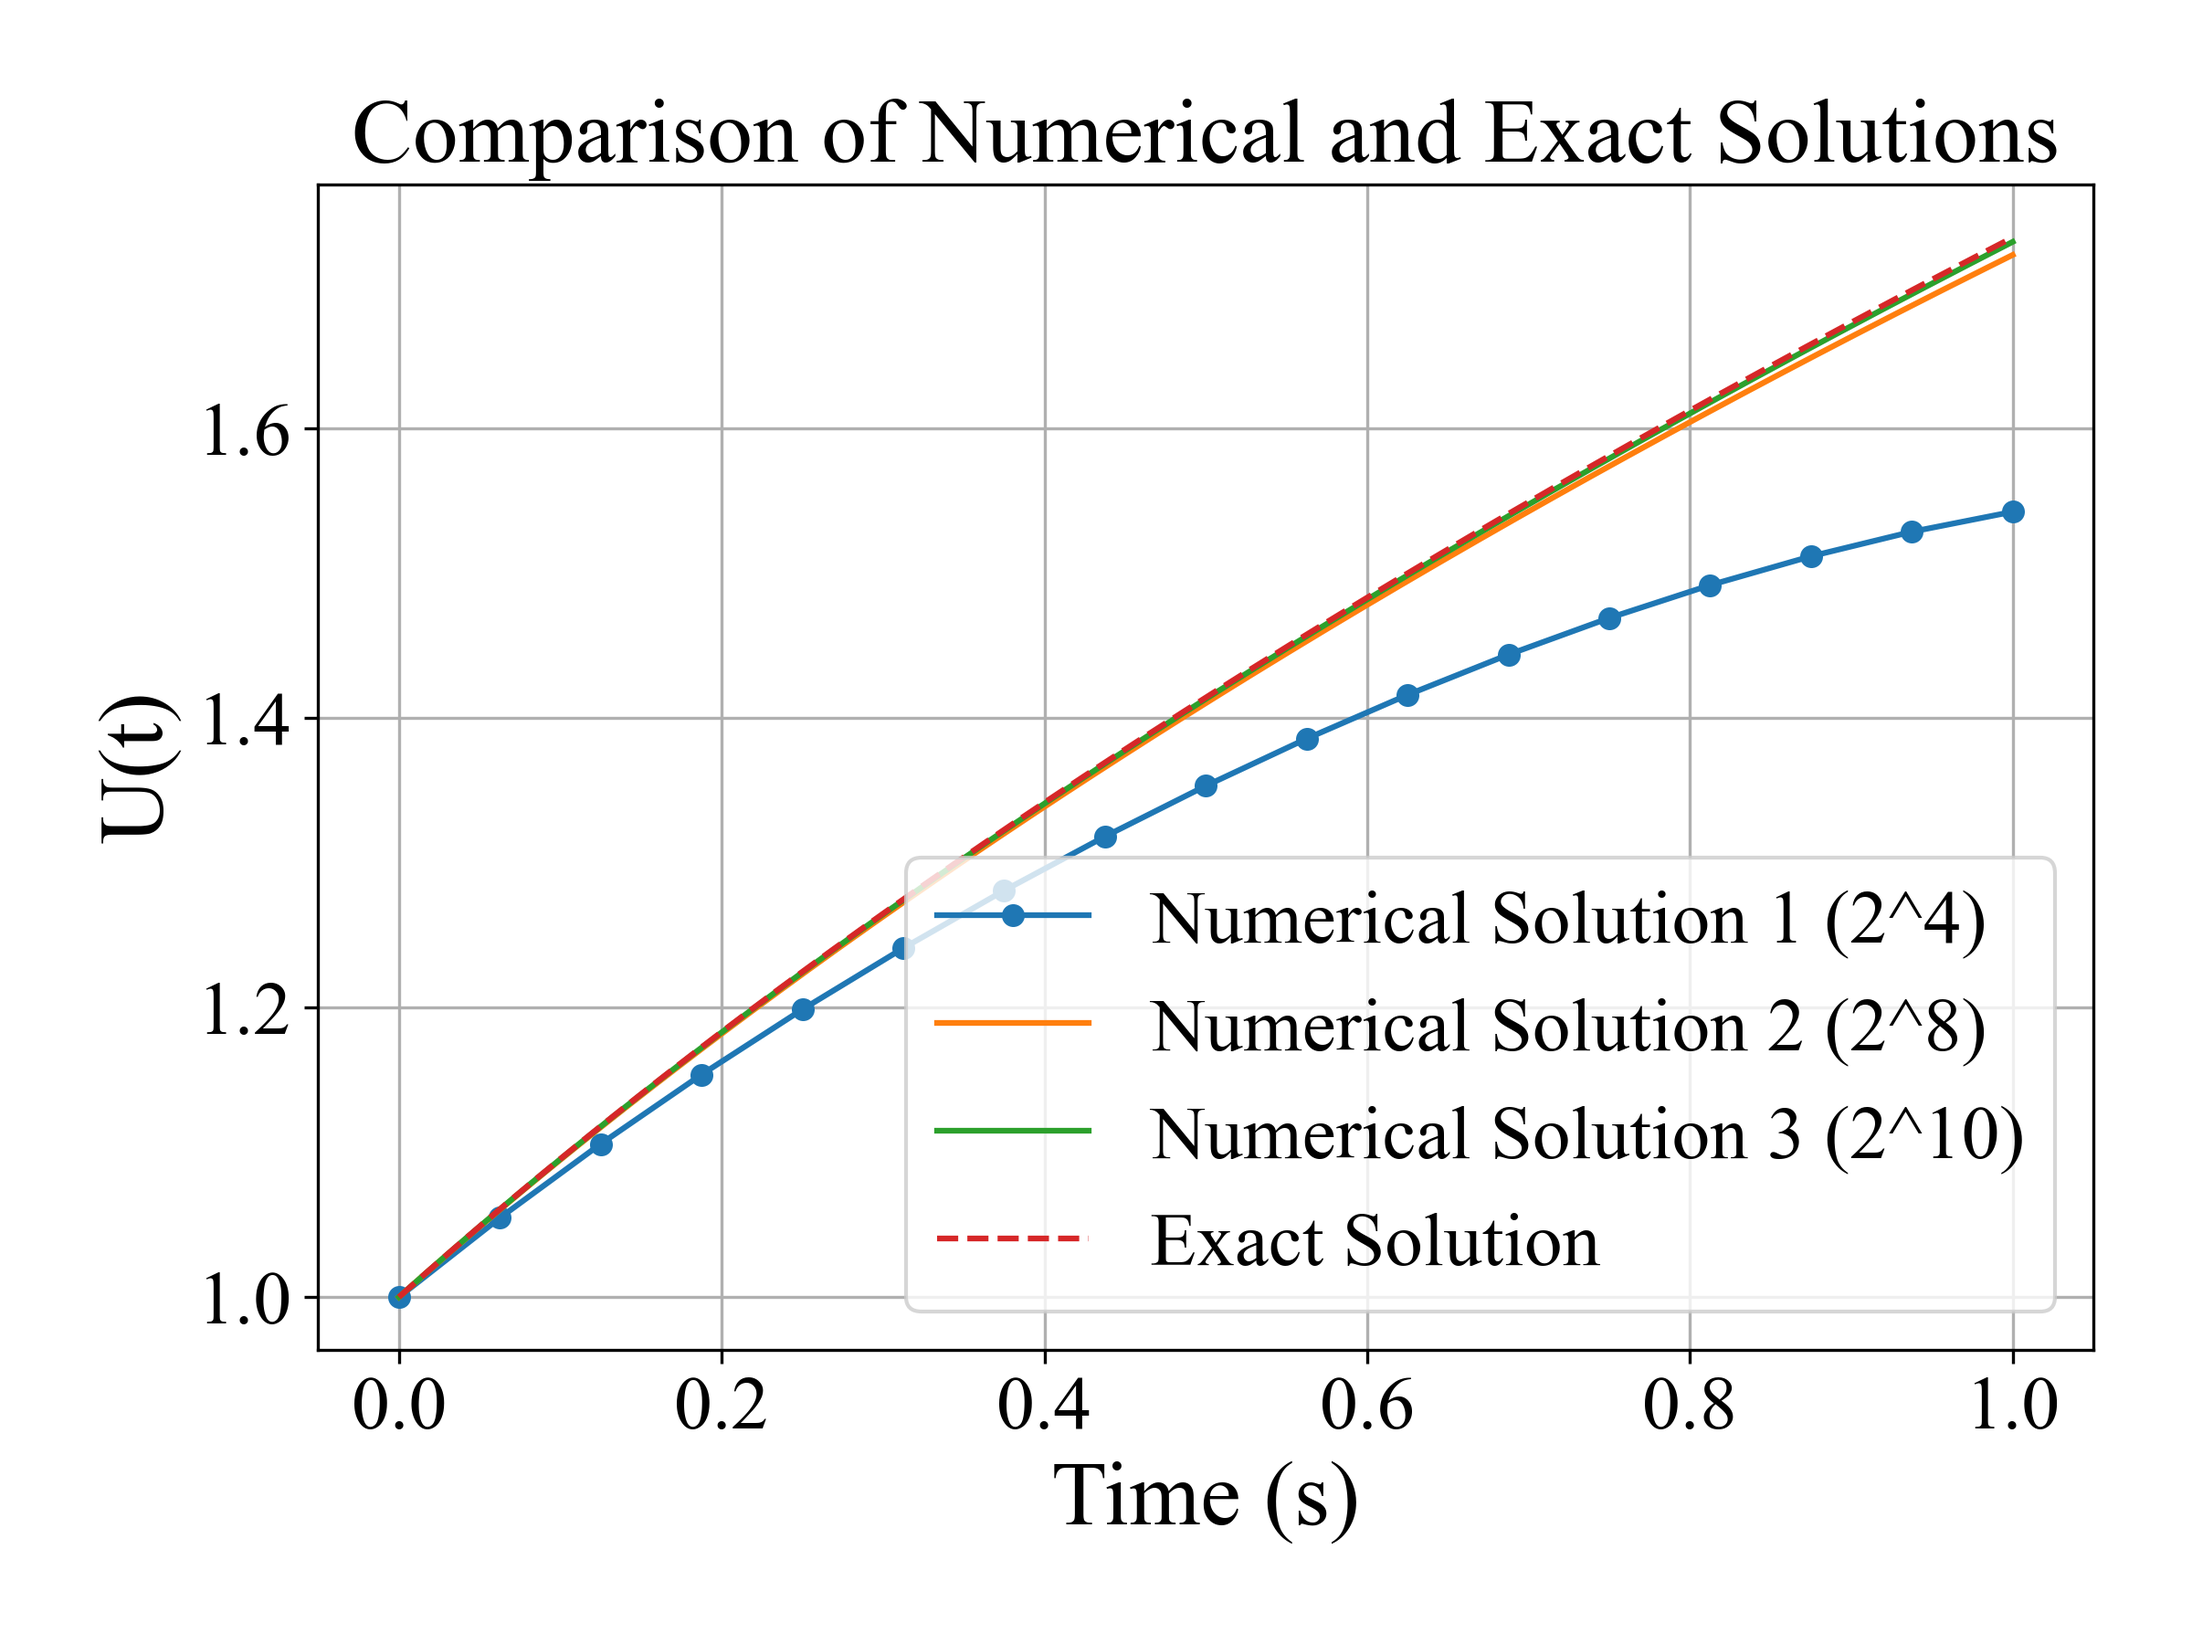
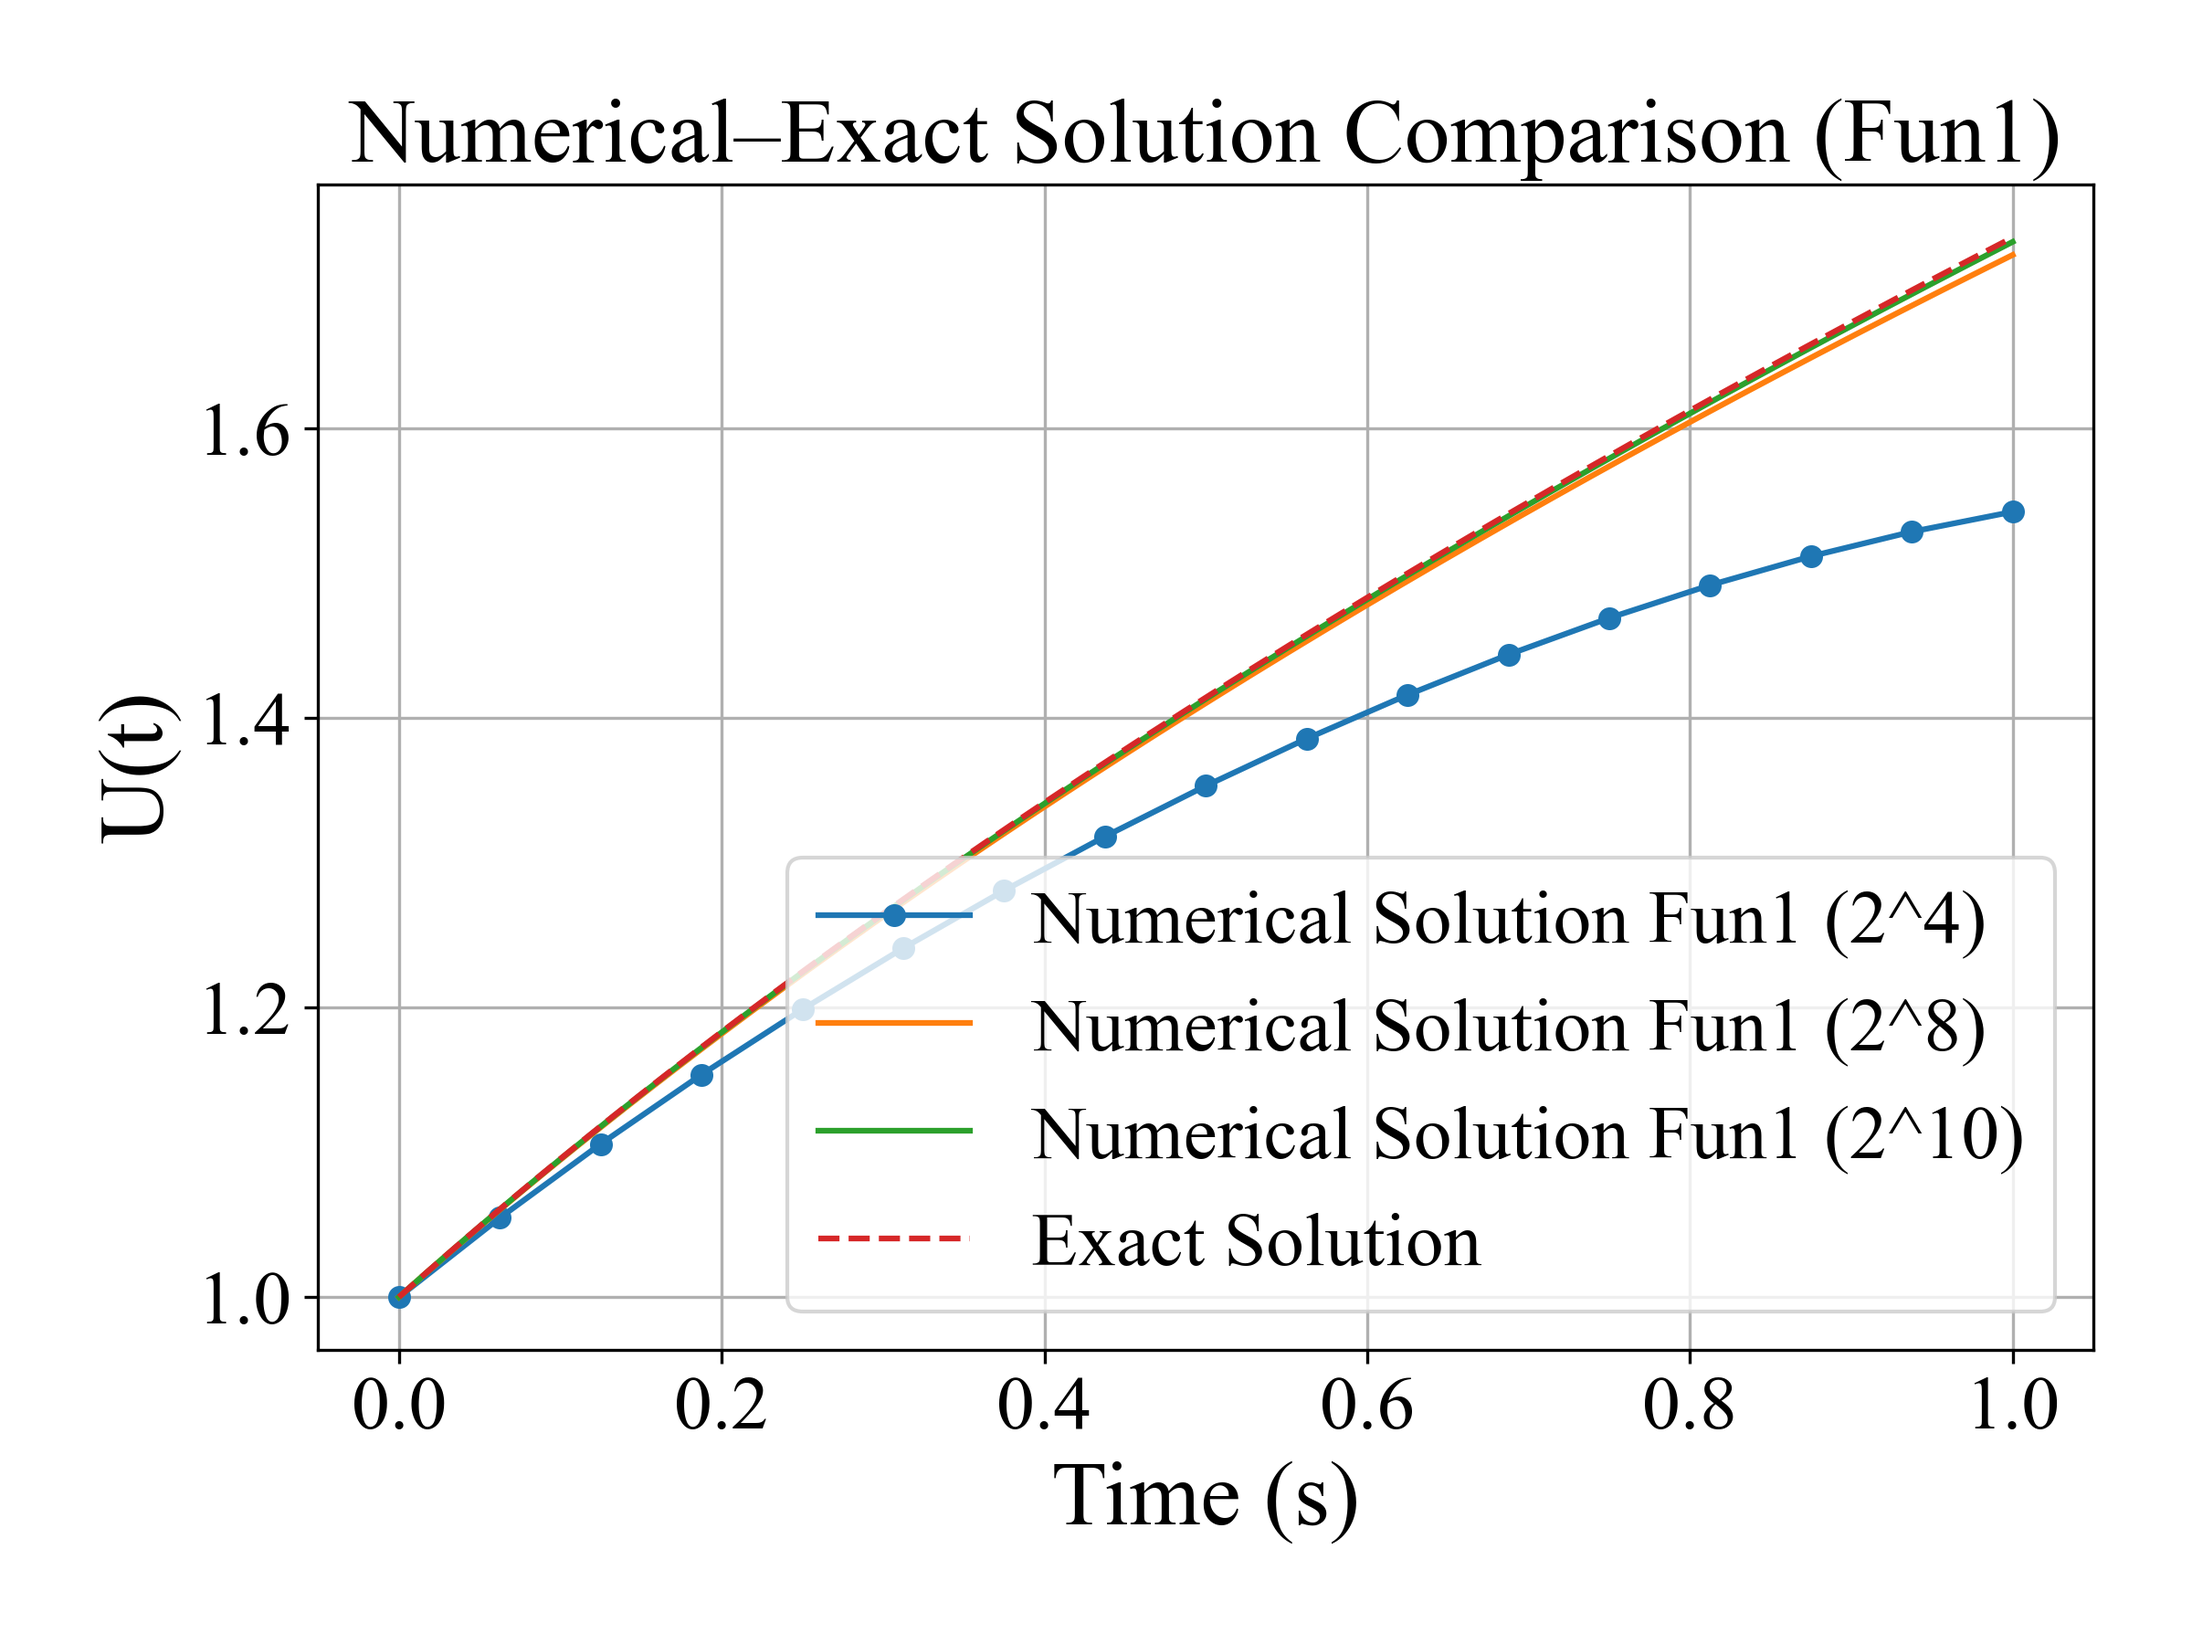
[Update]:example 1

diff --git a/ch2/example1/example1.py b/ch2/example1/example1.py
@@ -1,6 +1,11 @@
 # -*- coding: utf-8 -*-
 import numpy as np
 import matplotlib.pyplot as plt
+from scipy.integrate import quad
+from scipy.interpolate import interp1d
+import time
+import matplotlib.pyplot as plt
+
 plt.rcParams['font.family'] = ['Times New Roman']
 plt.rcParams['font.sans-serif'] = ['SimHei']  # 中文字体
 plt.rcParams['axes.unicode_minus'] = False
@@ -28,6 +33,9 @@ def get_time_step(hi):
     else:
         raise ValueError("hi must be 1, 2, or 3")
 
+def f(t, u):
+    return u - 2 * t / u
+
 def example_function(hi=1, Funi=1, u_0=1):
     assert u_0 != 0, "初始值 u_0 不能为 0，否则会除以 0 崩溃"
     ti = get_time_step(hi)
@@ -38,7 +46,46 @@ def example_function(hi=1, Funi=1, u_0=1):
         for m in range(1, int(T) + 1):
             U[m] = U[m - 1] + (U[m - 1] - (2 * m * ti) / (U[m - 1])) * ti
             # print("现在计算第", m * ti, "s的数值解为", U[m])
+    elif Funi == 2:
+        # 积分方法
+        t_list = [i * ti for i in range(int(T) + 1)]
+
+        for m in range(1, int(T) + 1):
+            t_prev = t_list[m - 1]
+            u_prev = U[m - 1]
+
+            # 简单线性插值（只有两点）
+            if m >= 2:
+                interp_func = interp1d(t_list[:m], U[:m], kind='linear', fill_value="extrapolate")
+                u_interp = lambda tau: float(interp_func(tau))
+            else:
+                u_interp = lambda tau: u_prev  # 初始步，常值延拓
+
+            integrand = lambda tau: f(tau, u_interp(tau))
+            integral, _ = quad(integrand, t_prev, t_prev + ti)
+
+            U[m] = u_prev + integral
+    elif Funi == 3:
+        for m in range(1, int(T) + 1):
+            t_prev = (m - 1) * ti
+            u_prev = U[m - 1]
+
+            # 一阶导数
+            f_val = f(t_prev, u_prev)
+
+            # 手动导数
+            df_dt = -2 / u_prev
+            df_du = 1 + (2 * t_prev) / (u_prev ** 2)
+
+            # 二阶导数
+            u2 = df_dt + df_du * f_val
+
+            # 可以使用三阶的，这里只使用到二阶
+            # 二阶泰勒展开
+            U[m] = u_prev + ti * f_val + (ti ** 2) / 2 * u2
+
     return U
+
 
 def UTrue_function(hi=1):
     ti = get_time_step(hi)
@@ -53,54 +100,201 @@ def UTrue_function(hi=1):
 Funi = 1
 u_0 = 1
 
-U_N1 = example_function(1, Funi, u_0)
-U_N2 = example_function(2, Funi, u_0)
-U_N3 = example_function(3, Funi, u_0)
+U_N11 = example_function(1, 1, u_0)
+U_N21 = example_function(2, 1, u_0)
+U_N31 = example_function(3, 1, u_0)
+U_N12 = example_function(1, 2, u_0)
+U_N22 = example_function(2, 2, u_0)
+U_N32 = example_function(3, 2, u_0)
+U_N13 = example_function(1, 3, u_0)
+U_N23 = example_function(2, 3, u_0)
+U_N33 = example_function(3, 3, u_0)
+
 U_T1 = UTrue_function(1)
 U_T2 = UTrue_function(2)
 U_T3 = UTrue_function(3)  # 用精度最高的那组作对比
 
-error1 = np.abs(np.array(U_N1) - np.array(U_T1))
-error2 = np.abs(np.array(U_N2) - np.array(U_T2))
-error3 = np.abs(np.array(U_N3) - np.array(U_T3))
+error11 = np.abs(np.array(U_N11) - np.array(U_T1))
+error21 = np.abs(np.array(U_N21) - np.array(U_T2))
+error31 = np.abs(np.array(U_N31) - np.array(U_T3))
+error12 = np.abs(np.array(U_N12) - np.array(U_T1))
+error22 = np.abs(np.array(U_N22) - np.array(U_T2))
+error32 = np.abs(np.array(U_N32) - np.array(U_T3))
+error13 = np.abs(np.array(U_N13) - np.array(U_T1))
+error23 = np.abs(np.array(U_N23) - np.array(U_T2))
+error33 = np.abs(np.array(U_N33) - np.array(U_T3))
 
 # 统一长度
 N = len(U_T3)
 T = 1.0
-time = np.linspace(0, T, N)
-
 # 为每组解分别生成时间向量
 time1 = np.linspace(0, 1.0, len(U_T1))
-time2 = np.linspace(0, 1.0, len(U_N2))
-time3 = np.linspace(0, 1.0, len(U_N3))
+time2 = np.linspace(0, 1.0, len(U_N21))
+time3 = np.linspace(0, 1.0, len(U_N31))
 time_true = np.linspace(0, 1.0, len(U_T3))
 
 # 分别绘图
 plt.figure(1, figsize=(8, 6))  
-plt.plot(time1, U_N1, label='Numerical Solution 1 (2^4)',marker='o', markersize=5)
-plt.plot(time2, U_N2, label='Numerical Solution 2 (2^8)')
-plt.plot(time3, U_N3, label='Numerical Solution 3 (2^10)')
+plt.plot(time1, U_N11, label='Numerical Solution Fun1 (2^4)',marker='o', markersize=5)
+plt.plot(time2, U_N21, label='Numerical Solution Fun1 (2^8)')
+plt.plot(time3, U_N31, label='Numerical Solution Fun1 (2^10)')
 plt.plot(time_true, U_T3, label='Exact Solution', linestyle='--')
 
 plt.xlabel('Time (s)')
 plt.ylabel('U(t)')
-plt.title('Comparison of Numerical and Exact Solutions')
+plt.title('Numerical–Exact Solution Comparison (Fun1)')
 plt.legend()
 plt.grid(True)
 plt.tight_layout()
 plt.savefig('1.png', dpi=300)  # 保存图像
 
 plt.figure(2, figsize=(8, 6))  
-plt.plot(time1, error1 + 1e-16, label='Error 1 (2^4)')
-plt.plot(time2, error2, label='Error 2 (2^8)')
-plt.plot(time3, error3, label='Error 3 (2^10)')
+plt.plot(time1, error11 + 1e-16, label='Error 1 (2^4)')
+plt.plot(time2, error21, label='Error 2 (2^8)')
+plt.plot(time3, error31, label='Error 3 (2^10)')
 
 plt.xlabel('Time (s)')
 plt.ylabel('Absolute Error')
-plt.title('Absolute Error between Numerical and Exact Solutions')
+plt.title('Absolute Error (Fun1)')
 plt.legend()
 plt.grid(True, which='both')  # 网格显示，both 使得主次网格都显示
 plt.yscale('log')  # 关键：y轴对数刻度
 plt.tight_layout()
 plt.savefig('2.png', dpi=300)  # 保存图像
+
+# 分别绘图
+plt.figure(3, figsize=(8, 6))  
+plt.plot(time1, U_N11, label='Numerical Solution Fun2 (2^4)',marker='o', markersize=5)
+plt.plot(time2, U_N21, label='Numerical Solution Fun2 (2^8)')
+plt.plot(time3, U_N31, label='Numerical Solution Fun2 (2^10)')
+plt.plot(time_true, U_T3, label='Exact Solution', linestyle='--')
+
+plt.xlabel('Time (s)')
+plt.ylabel('U(t)')
+plt.title('Numerical–Exact Solution Comparison (Fun2)')
+plt.legend()
+plt.grid(True)
+plt.tight_layout()
+plt.savefig('3.png', dpi=300)  # 保存图像
+
+plt.figure(4, figsize=(8, 6))  
+plt.plot(time1, error12 + 1e-16, label='Error 1 (2^4)')
+plt.plot(time2, error22, label='Error 2 (2^8)')
+plt.plot(time3, error32, label='Error 3 (2^10)')
+
+plt.xlabel('Time (s)')
+plt.ylabel('Absolute Error')
+plt.title('Absolute Error (Fun2)')
+plt.legend()
+plt.grid(True, which='both')  # 网格显示，both 使得主次网格都显示
+plt.yscale('log')  # 关键：y轴对数刻度
+plt.tight_layout()
+plt.savefig('4.png', dpi=300)  # 保存图像
+
+# 分别绘图
+plt.figure(5, figsize=(8, 6))  
+plt.plot(time1, U_N11, label='Numerical Solution Fun3 (2^4)',marker='o', markersize=5)
+plt.plot(time2, U_N21, label='Numerical Solution Fun3 (2^8)')
+plt.plot(time3, U_N31, label='Numerical Solution Fun3 (2^10)')
+plt.plot(time_true, U_T3, label='Exact Solution', linestyle='--')
+
+plt.xlabel('Time (s)')
+plt.ylabel('U(t)')
+plt.title('Numerical–Exact Solution Comparison (Fun3)')
+plt.legend()
+plt.grid(True)
+plt.tight_layout()
+plt.savefig('5.png', dpi=300)  # 保存图像
+
+plt.figure(6, figsize=(8, 6))  
+plt.plot(time1, error12 + 1e-16, label='Error 1 (2^4)')
+plt.plot(time2, error22, label='Error 2 (2^8)')
+plt.plot(time3, error32, label='Error 3 (2^10)')
+
+plt.xlabel('Time (s)')
+plt.ylabel('Absolute Error')
+plt.title('Absolute Error (Fun3)')
+plt.legend()
+plt.grid(True, which='both')  # 网格显示，both 使得主次网格都显示
+plt.yscale('log')  # 关键：y轴对数刻度
+plt.tight_layout()
+plt.savefig('6.png', dpi=300)  # 保存图像
+
+# 三个方法的比较
+methods = ['Euler', 'Integral', 'Taylor-2nd']
+markers = {'Euler': 'o', 'Integral': 's', 'Taylor-2nd': '^'}
+linestyles = {'Euler': '-', 'Integral': '--', 'Taylor-2nd': '-.'}
+colors = {'Euler': '#1f77b4', 'Integral': '#2ca02c', 'Taylor-2nd': '#d62728'}
+
+Funi_list = [1, 2, 3]
+hi_list = [1, 2, 3]
+h_vals = [get_time_step(hi) for hi in hi_list]
+
+# 结果存储
+max_errors = {method: [] for method in methods}
+l2_errors = {method: [] for method in methods}
+run_times  = {method: [] for method in methods}
+
+# 精确解
+U_T = {hi: UTrue_function(hi) for hi in hi_list}
+
+# 主循环
+for Funi, method in zip(Funi_list, methods):
+    for hi in hi_list:
+        h = get_time_step(hi)
+        t0 = time.time()
+        U_num = example_function(hi, Funi, u_0)
+        elapsed = time.time() - t0
+        U_exact = U_T[hi]
+        err = np.abs(np.array(U_num) - np.array(U_exact))
+        max_errors[method].append(np.max(err))
+        l2_errors[method].append(np.sqrt(np.mean(err**2)))
+        run_times[method].append(elapsed)
+
+# --------- 绘图 ---------
+plt.figure(7, figsize=(8, 6))  
+for method in methods:
+    y = np.array(max_errors[method])
+    plt.plot(h_vals, y,
+             marker=markers[method],
+             linestyle=linestyles[method],
+             label=f'{method}')
+    # 添加置信区间：±50%
+    plt.fill_between(h_vals, y * 0.5, y * 1.5, alpha=0.2)
+
+plt.xscale('log')
+plt.yscale('log')
+plt.xlabel('Step Size $h$ (log scale)')
+plt.ylabel('Max Absolute Error (log scale)')
+plt.title('Max Error vs Step Size')
+plt.grid(True, which='both')
+plt.legend()
+plt.tight_layout()
+plt.savefig('error_vs_h.png', dpi=300)
+
+plt.figure(8, figsize=(8, 6))  
+for method in methods:
+    y = np.clip(np.array(run_times[method]), 1e-6, None)
+    color = colors[method]
+    plt.plot(h_vals, y,
+             marker=markers[method],
+             linestyle=linestyles[method],
+             color=color,
+             zorder=3,
+             label=f'{method}')
+    plt.fill_between(h_vals,
+                     y * 0.5, y * 1.5,
+                     color=color,
+                     alpha=0.2,
+                     zorder=2)
+
+plt.xscale('log')
+plt.yscale('log')
+plt.xlabel('Step Size $h$ (log scale)')
+plt.ylabel('Runtime (seconds, log scale)')
+plt.title('Computation Time vs Step Size')
+plt.grid(True, which='both')
+plt.legend()
+plt.tight_layout()
+plt.savefig('time_vs_h.png', dpi=300)
 plt.show()
